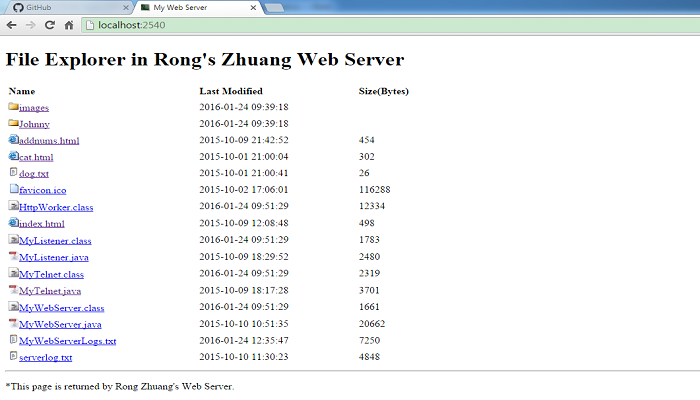
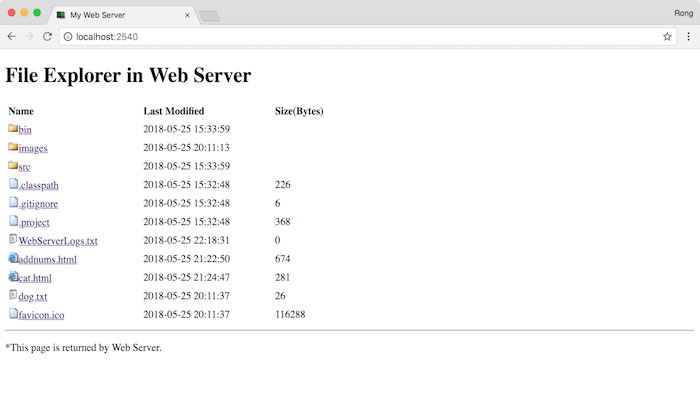
web server portfolio and posting

diff --git a/_portfolios/web-server-java.md b/_portfolios/web-server-java.md
@@ -3,7 +3,7 @@ layout: portfolio
 key: portfolio
 title: "Web Server(Java)"
 index: 230
-tags: [Socket, Java, HTTP, UDP]
+tags: [Socket, Java, HTTP]
 image: /public/portfolios/webserverjava/thumbnail.png
 excerpt: A web server built with sockets in Java, capable of handling general HTTP requests.
 category: dotnet
@@ -11,32 +11,36 @@ category: dotnet
 
 > A web server built with sockets in Java, capable of handling general HTTP requests.
 
-This is one of my homework projects for course 'CSC435-Distributed System'. We are asked to write a web server with Java socket. The web server shall be able to respond properly to HTTP requests from client and it should handle requests simultaneously.The challenge for this task is that I have to take care of the whole process by my own, including retrieving the input message, parsing it, identifying the request, applying the correct operation, outputting correct HTTP response and sending back feedback to the client. Besides, I must be careful to handle the exceptions and deal with unexpected inputs.  
+This web server is able to respond properly to HTTP requests from client(web browser) and it can handle requests simultaneously. Java sockets are used to to accept string-format requests and return string-format responses. So, this Http Sever is implemented at very low layer. It processes stand HTTP requests and responses all by hand.   
 
-## 1. Start the Web Server  
-1) Open a command window, navigate to the root directory of this program.  
-2) Compile all java source files.  
-```
-javac \*.java
-```
+## 1. Web Server
+### 1.1 Homepage
+Open web browser, access 'http://localhost:2540/'. All of the files in the root directory are displayed.
+![image](/public/portfolios/webserverjava/homepage.png)
+### 1.2 Directory Navigation
+Click on the folder 'src' and navigate to the deeper layers. The path in browser's address bar changes accordingly, files in each directory are properly displayed.
+![image](/public/portfolios/webserverjava/navigation.png)
+### 1.3 Viewing File Content
+Click on file 'WebServer.java', its content shows up.
+![image](/public/portfolios/webserverjava/content.png)
+Go back to the root folder, view content of txt file.
+![image](/public/portfolios/webserverjava/dogtxt.png){:width="800px"}
+### 1.4 Viewing HTML Page
+![image](/public/portfolios/webserverjava/cathtml.png){:width="800px"}
+### 1.5 CGI
+Apart from handling the requests to static files and directories, this web server also supports to handle dynamical requests. For example, it has a fake CGI page which can calculate the sum of two given numbers. In the root directory, click 'addnums.html'. Specify the name and two numbers, click Submit button.
+![image](/public/portfolios/webserverjava/cgi.png){:width="800px"}
+If numbers are correctly set, we can get the proper result.
+![image](/public/portfolios/webserverjava/addnumbers.png){:width="800px"}
+### 1.6 Error Handling
+If invalid input are passed to the server, it returns 500 error with specific error message.
+![image](/public/portfolios/webserverjava/error.png){:width="800px"}
+### 1.7 Logs
+Check the logs in WebServerLogs.txt. These logs are also available in the console of Eclipse.
+![image](/public/portfolios/webserverjava/logs.png){:width="800px"}  
 
-3) Start java application.  
-```
-java MyWebServer
-```
+## 2. Under the Hood
+Check posting [Building Web Server with Socket in Java]({% link _posts/2016-02-24-building-web-server-with-socket-java.md %}) to learn the details how this web server is built.
 
-![startserver](/public/portfolios/webserverjava/startserver.png "startserver")
-## 2. Files in Root Directory.  
-![root](/public/portfolios/webserverjava/root.png "root")
-## 3. Access the Home of Web Server
-Open web browser, access the server URL [http://localhost:2540/](http://localhost:2540/). All of the files in the root directory will be listed out.  
-![webserver](/public/portfolios/webserverjava/webserver.png "webserver")
-You can try to click the links of different files, and you should get proper result. You can also navigate between directories recursively.  
-![recursive](/public/portfolios/webserverjava/recursive.png "recursive")
-## 4. Handle Post Request
-Apart from handling the requests to static files and directories, this web server also supports to handle dynamical requests. For example, it has a fake CGI page which can calculate the sum of two given numbers.  
-![cgi](/public/portfolios/webserverjava/cgi.png "cgi")  
-![cgiresult](/public/portfolios/webserverjava/cgiresult.png "cgiresult")  
-
-## 5. Source Files
+## 3. Source Files
 * [Source files of Web Server on Github](https://github.com/jojozhuang/Portfolio/tree/master/WebServer)

diff --git a/_posts/2016-02-24-building-web-server-with-socket-java.md b/_posts/2016-02-24-building-web-server-with-socket-java.md
@@ -642,7 +642,7 @@ public class LogUtil {
 ```
 ## 4. Auxiliary Resources
 Some images, and static files. The final project looks as follows.
-![image](/public/posts/2016-02-24/project.png){:width="400px"}  
+![image](/public/posts/2016-02-24/project.png){:width="350px"}
 
 ## 5 Testing
 Right click on 'WebServer.java'-> Run As->Java Application. You will see the logs in console. The web server starts working.
@@ -650,19 +650,22 @@ Right click on 'WebServer.java'-> Run As->Java Application. You will see the log
 
 Open web browser, access 'http://localhost:2540/'. All of the files in the root directory are displayed.
 ![image](/public/posts/2016-02-24/homepage.png)
-Click on the folder 'src' and navigate to deeper layer. The path in address bar changes, files and directories are changed accordingly.
+Click on the folder 'src' and navigate to the deeper layers. The path in browser's address bar changes accordingly, files in each directory are properly displayed.
 ![image](/public/posts/2016-02-24/navigation.png)
 Click on file 'WebServer.java', its content shows up.
 ![image](/public/posts/2016-02-24/content.png)
-Go back to the root folder, view content of txt and html files.
-![image](/public/posts/2016-02-24/dogtxt.png){:width="800px"}  
-![image](/public/posts/2016-02-24/cathtml.png){:width="800px"}  
-In root directory, click 'addnums.html'. Let's test the CGI function.
-![image](/public/posts/2016-02-24/cgi.png){:width="800px"}  
-If numbers are set correctly, we can get the proper result.
-![image](/public/posts/2016-02-24/addnumbers.png){:width="800px"}  
-If invalid input are passed to server, it response with 500 error with proper error message.
-![image](/public/posts/2016-02-24/error.png){:width="800px"}  
+Go back to the root folder, view content of txt file.
+![image](/public/posts/2016-02-24/dogtxt.png){:width="800px"}
+View html file.
+![image](/public/posts/2016-02-24/cathtml.png){:width="800px"}
+Let's test the CGI function. In the root directory, click 'addnums.html'.
+![image](/public/posts/2016-02-24/cgi.png){:width="800px"}
+If numbers are correctly set, we can get the proper result.
+![image](/public/posts/2016-02-24/addnumbers.png){:width="800px"}
+If invalid input are passed to the server, it returns 500 error with specific error message.
+![image](/public/posts/2016-02-24/error.png){:width="800px"}
+Check the logs in WebServerLogs.txt. These logs are also available in the console of Eclipse.
+![image](/public/posts/2016-02-24/logs.png){:width="800px"}  
 
 ## 6. Source Files
 * [Source files of Web Server on Github](https://github.com/jojozhuang/Portfolio/tree/master/WebServer)
